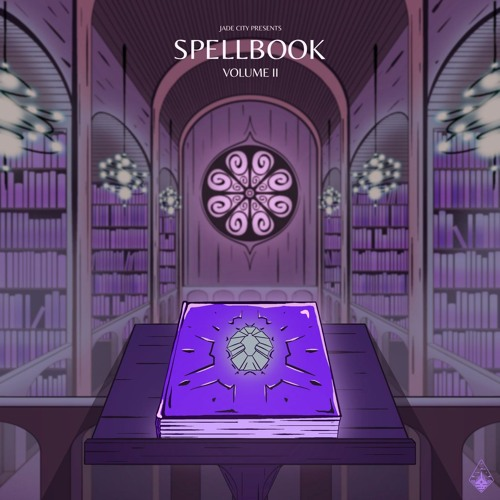
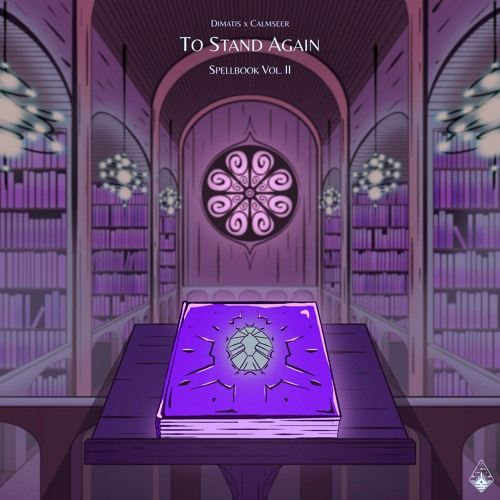
feat: `to-stand-again` release preparations

Changed region(s): [[0.33, 0.03, 0.66, 0.15], [0.93, 0.93, 0.99, 0.99]]

diff --git a/app/assets/data/tracks.ts b/app/assets/data/tracks.ts
@@ -1,5 +1,72 @@
 export default [
   {
+    id: "to-stand-again",
+    artists: "Dimatis & Calmseer",
+    title: "To Stand Again",
+    description: "I'm happy to announce my latest release, \"To Stand Again\" a collaboration with Calmseer, featured on Jade City Records' Spellbook Vol. II album! This song captures the moment when a hero, on the verge of giving up, finds the strength to rise again, driven by a desire to protect others. 🗡📖",
+    label: "Jade City",
+    genre: "Melodic Dubstep",
+    date: "2024-10-04T00:00:00.000",
+    person: ["Dimatis", "Calmseer"],
+    mm: 4,
+    ss: 0,
+    dropbox: {
+      id: "lf3e4hnlq52yofe0kkks6",
+      rlkey: "chilqcxeelebnz3bq3mtha5vd"
+    },
+    credits: [
+      {
+        title: "Support Calmseer",
+        socials: [
+          {
+            name: "Spotify",
+            link: "https://open.spotify.com/artist/2RtIZi9ui5VBDYpWH1us7r?si=d10o4MwLTvuO7Pqqndfc7w"
+          },
+          {
+            name: "Instagram",
+            link: "https://www.instagram.com/calmseer.music/"
+          }
+        ]
+      },
+      {
+        title: "Support Jade City",
+        socials: [
+          {
+            name: "Instagram",
+            link: "https://www.instagram.com/jadecityrecords/"
+          },
+          {
+            name: "Discord",
+            link: "https://discord.gg/QEAvUTVhNc"
+          },
+          {
+            name: "Soundcloud",
+            link: "https://soundcloud.com/jadecityrecords"
+          }
+        ]
+      }
+    ],
+    fanlink: {
+      download: true,
+      dark: false,
+      links: {
+        spotify: "https://open.spotify.com/track/3cFlQzUgRJRMuBuqrtkJxd",
+        soundcloud: "https://soundcloud.com/dimatis/to-stand-again",
+        youtube: "https://youtu.be/e6emeGkva9g",
+        apple: "https://music.apple.com/us/album/to-stand-again-single/1770453969?app=music&ls=1",
+        itunes: "https://music.apple.com/us/album/to-stand-again-single/1770453969?app=itunes&ls=1",
+        bandcamp: "https://dimatis.bandcamp.com/track/to-stand-again",
+        deezer: "",
+        tidal: "",
+        yandex: "",
+        amazon: "",
+        tiktok: "",
+        beatport: "",
+        netease: ""
+      }
+    }
+  },
+  {
     id: "legado",
     artists: "Dimatis",
     title: "Legado",
